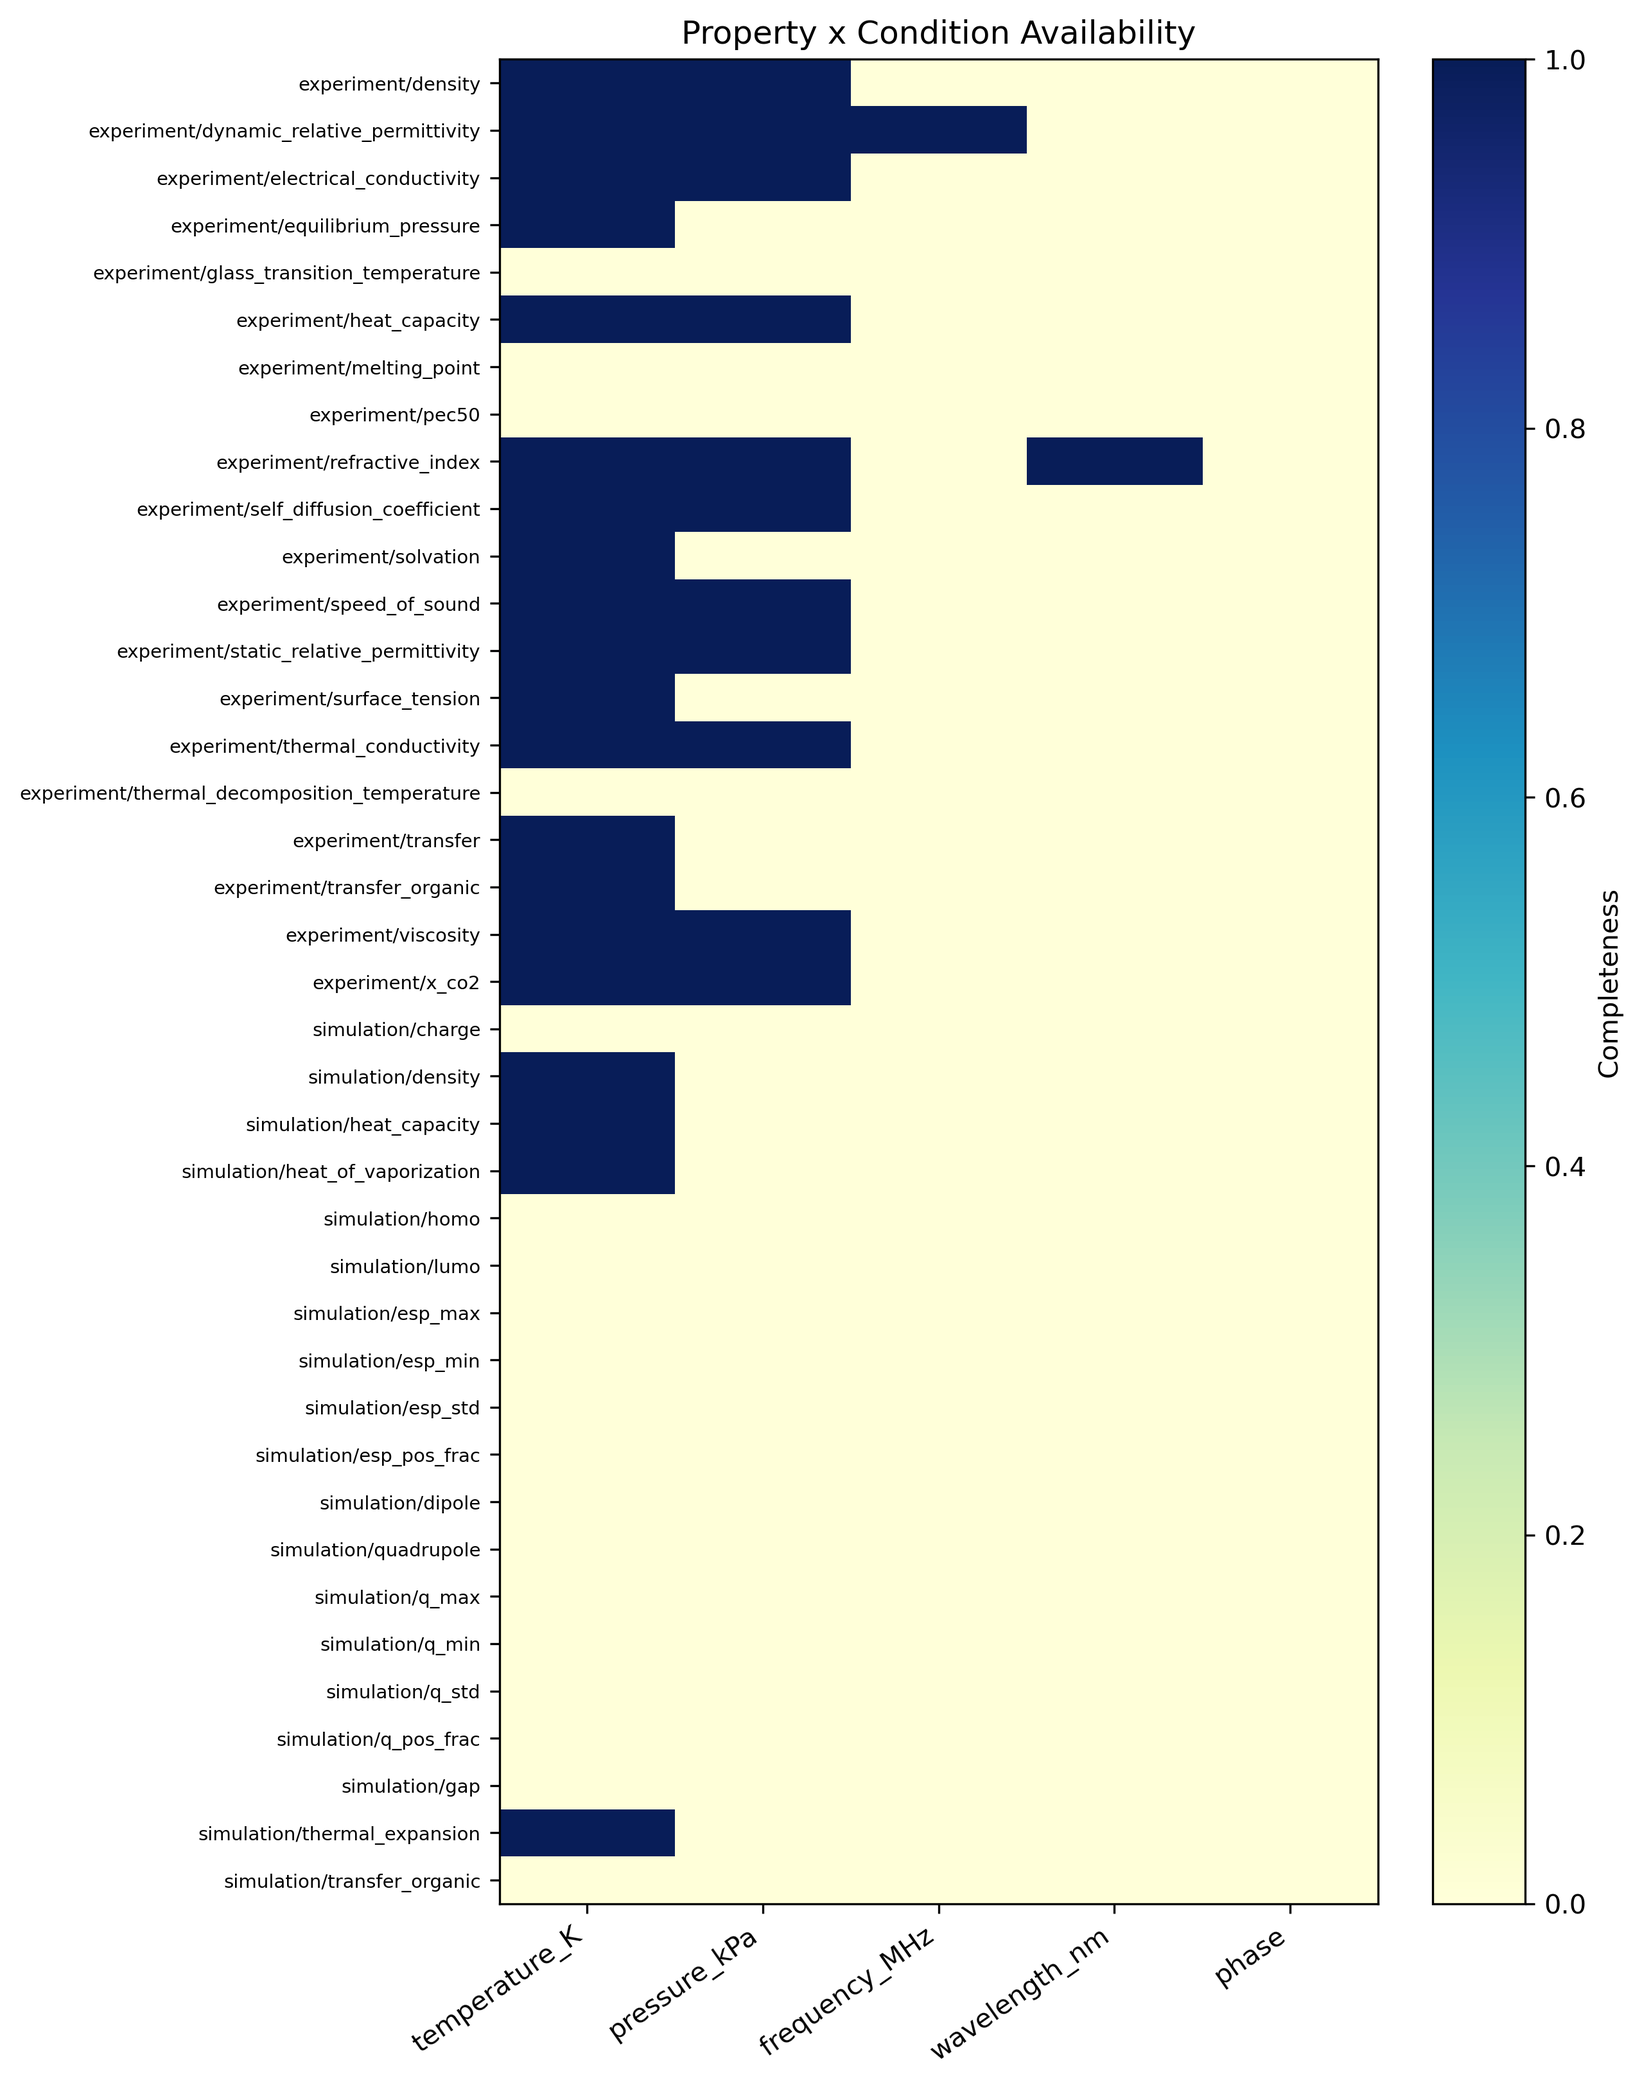
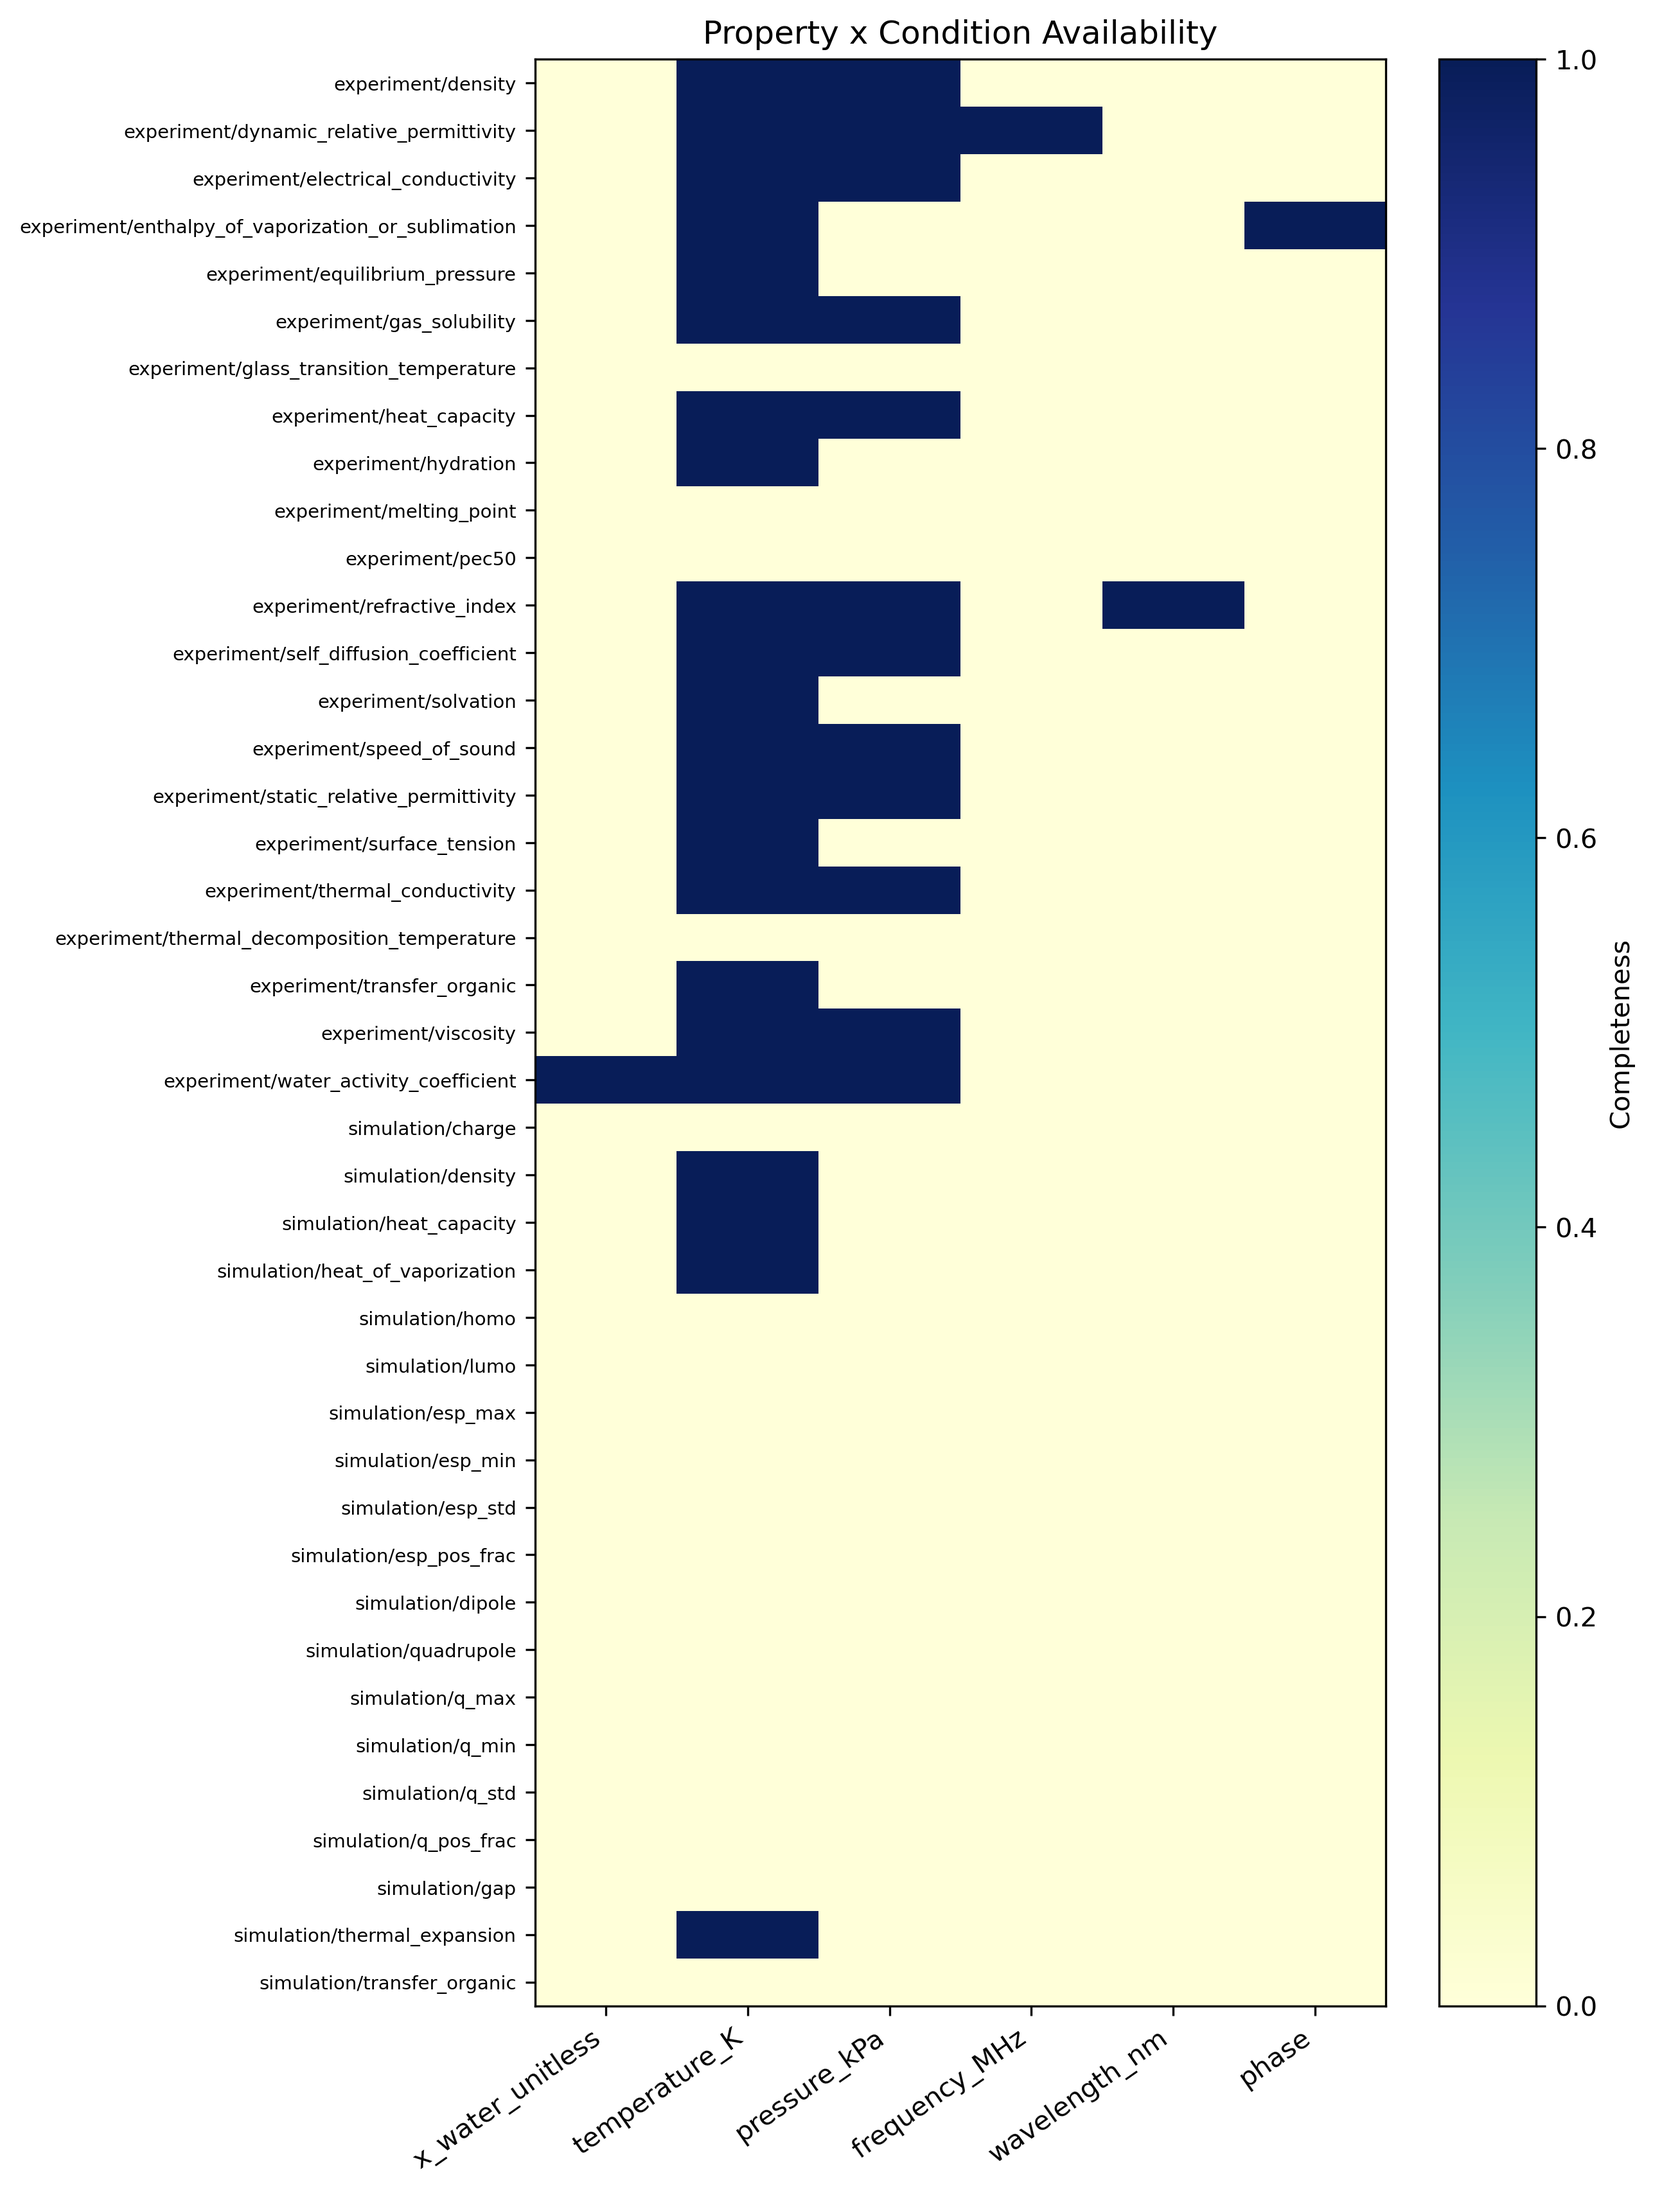
Refactor code structure for improved readability and maintainability

diff --git a/analysis/property_analysis_report.md b/analysis/property_analysis_report.md
@@ -2,11 +2,11 @@
 
 ## Global Summary
 
-- Analyzed properties: 39
-- Total data points across analyzed properties: 1751483
-- Sum of property-level unique systems: 1487433
+- Analyzed properties: 41
+- Total data points across analyzed properties: 1766235
+- Sum of property-level unique systems: 1485174
 - Properties recommended for system holdout test: 33
-- Properties recommended for grouped CV: 6
+- Properties recommended for grouped CV: 8
 - Properties recommended for leave-one-system-out or descriptive analysis: 0
 
 ## Largest Properties
@@ -19,12 +19,12 @@
 | simulation | heat_of_vaporization | 41701 | 20895 | system_holdout_test |
 | experiment | viscosity | 39941 | 2586 | system_holdout_test |
 | simulation | charge | 28203 | 28203 | system_holdout_test |
+| simulation | gap | 27258 | 27258 | system_holdout_test |
 | simulation | q_min | 27258 | 27258 | system_holdout_test |
+| simulation | q_max | 27258 | 27258 | system_holdout_test |
 | simulation | esp_min | 27258 | 27258 | system_holdout_test |
 | simulation | quadrupole | 27258 | 27258 | system_holdout_test |
 | simulation | dipole | 27258 | 27258 | system_holdout_test |
-| simulation | esp_pos_frac | 27258 | 27258 | system_holdout_test |
-| simulation | esp_max | 27258 | 27258 | system_holdout_test |
 
 ## High Leakage Risk Properties
 
@@ -35,15 +35,15 @@ These properties should not be split by random rows because repeated systems can
 | experiment | dynamic_relative_permittivity | 49 | 1.0 | 18 |
 | simulation | heat_of_vaporization | 20895 | 0.9957406078009093 | 2 |
 | simulation | density | 26204 | 0.9941993588765075 | 9 |
-| experiment | x_co2 | 122 | 0.9918032786885246 | 671 |
 | experiment | equilibrium_pressure | 95 | 0.9894736842105263 | 151 |
+| experiment | water_activity_coefficient | 167 | 0.9880239520958084 | 247 |
 | experiment | speed_of_sound | 216 | 0.9861111111111112 | 252 |
 | experiment | thermal_conductivity | 93 | 0.978494623655914 | 95 |
+| experiment | gas_solubility | 487 | 0.9527720739219713 | 906 |
 | experiment | density | 5966 | 0.9446865571572243 | 2509 |
 | experiment | heat_capacity | 352 | 0.875 | 1757 |
 | experiment | surface_tension | 1141 | 0.845749342681858 | 180 |
 | experiment | refractive_index | 726 | 0.803030303030303 | 237 |
-| experiment | electrical_conductivity | 703 | 0.7510668563300142 | 304 |
 
 ## System Holdout Test Candidates
 
@@ -71,7 +71,9 @@ These properties should not be split by random rows because repeated systems can
 | experiment | dynamic_relative_permittivity | 49 | 882 |
 | experiment | thermal_conductivity | 93 | 1540 |
 | experiment | equilibrium_pressure | 95 | 2029 |
-| experiment | x_co2 | 122 | 9536 |
+| experiment | enthalpy_of_vaporization_or_sublimation | 137 | 218 |
+| experiment | hydration | 151 | 151 |
+| experiment | water_activity_coefficient | 167 | 3521 |
 
 ## Small Properties
 
@@ -82,17 +84,17 @@ None.
 Experimental ionic-liquid systems are keyed by `(cation, anion)`; measurement conditions are ignored.
 
 - Full pairwise statistics: `property_system_overlap.csv`
-- Properties with IL systems: 19
+- Properties with IL systems: 20
 
 ## Generated Figures
 
 - condition_availability: 1
 - coverage: 4
 - normalized_property_violin: 1
-- property_distribution_1d: 39
-- property_distribution_2d: 48
+- property_distribution_1d: 41
+- property_distribution_2d: 55
 - property_system_overlap: 1
-- system_frequency: 39
+- system_frequency: 41
 
 Key summary figures:
 - `figures/coverage/property_coverage_all.png`
